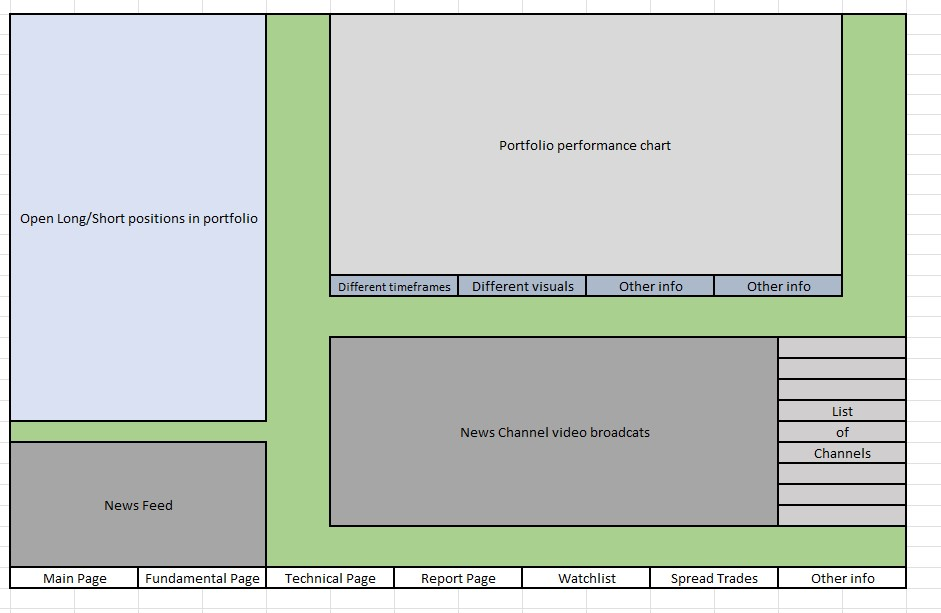
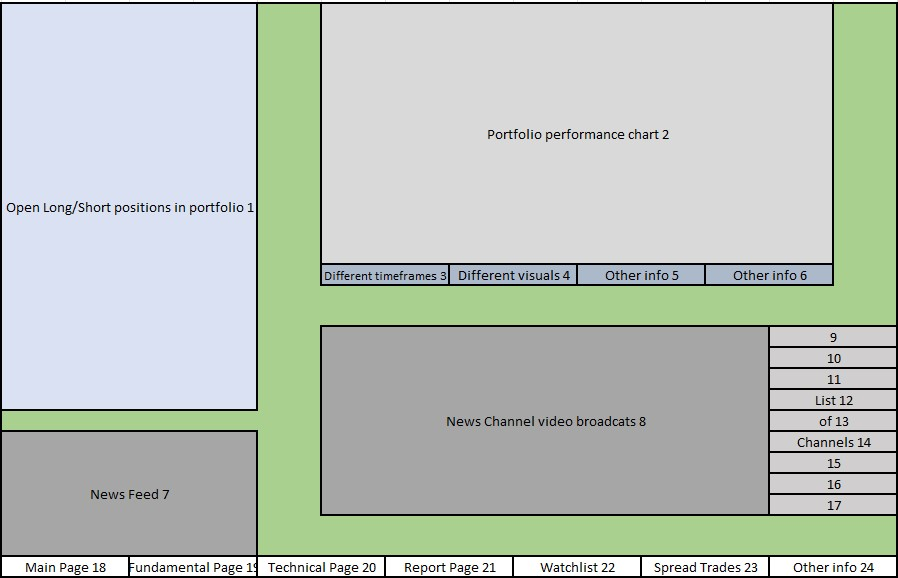
work on a frames in a main page

diff --git a/AlphaWave.py b/AlphaWave.py
@@ -22,11 +22,13 @@ def main():
     root.geometry(f'{width}x{height}+{x_offset}+{y_offset}')
 
     #Here coming frames for the pages.
-    frame1 = tk.Frame(root, bg='silver', bd=2, relief='solid')
+    frame1 = tk.Frame(root, bg='#dae1f3', bd=2, relief='solid')
+    frame2 = tk.Frame(root, bg='white', bd=2, relief='solid')
 
 
     #Place frames in layout.
-    frame1.place(relx=0.5, rely=0.05, relwidth=0.2, relheight=0.2)
+    frame1.place(relx=0, rely=0, relwidth=0.25, relheight=0.6)
+    frame2.place(relx=0.3, rely=0, relwidth=0.64, relheight=0.4)
 
     #Tkinter event loop.
     root.mainloop()
